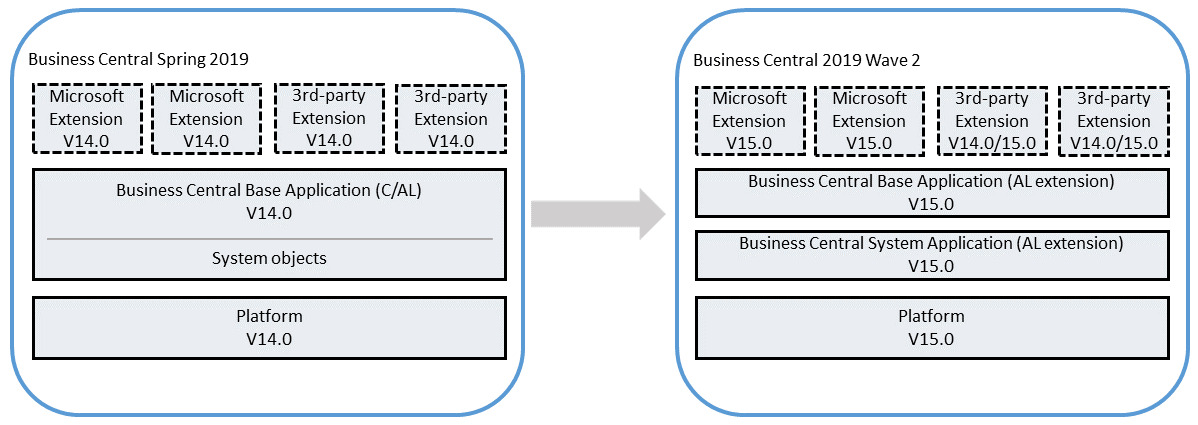
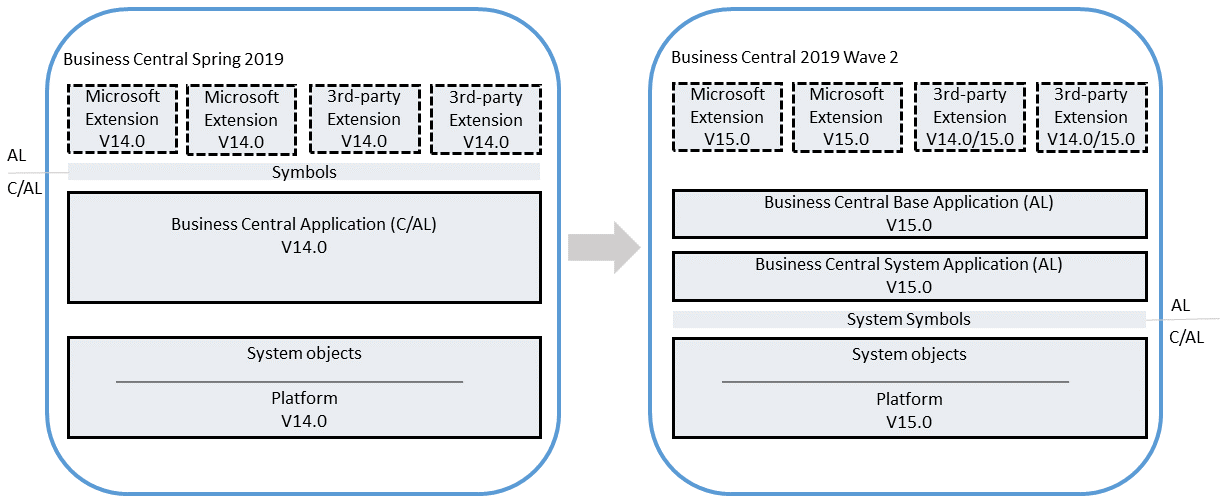
updates

Changed region(s): [[0.0, 0.0, 1.0, 1.0]]

diff --git a/dev-itpro/upgrade/upgrade-overview-v15.md b/dev-itpro/upgrade/upgrade-overview-v15.md
@@ -1095,6 +1095,20 @@ Now, you can publish the Microsoft and 3rd-party extensions that were published 
     ```
 
 -->
+## Componennt overview
+
+When upgrading, it will help to understand the components indicated in the illustration:
+
+
+
+## <a name="Symbols"></a>Symbols
+
+Symbols are the application programming interface between AL code and C/AL code. Symbols enable the ability to reference C/AL objects from AL objects. Symbols are provided as an extension package, and are published to the server instance similar to application extensions, but not installed on tenants.
+
+In version 14.0, with the base application being C/AL, there are three types of symbols: system, application, and test. System symbols contained references to the platform system objects. The application symbols contained references to the business application objects. The test symbols contained references to the test libraries used by Microsoft extensions.
+
+In version 15, with the move to AL, the only symbols required are the system systems, which are still provided on the version 15.0 installation media (DVD).
+  
 ## See Also  
 [Upgrading the Data](Upgrading-the-Data.md)   
 [Upgrading to Business Central](upgrading-to-business-central.md)  

diff --git a/dev-itpro/upgrade/upgrade-unmodified-application.md b/dev-itpro/upgrade/upgrade-unmodified-application.md
@@ -146,6 +146,8 @@ to the version 15.0 platform. The conversion updates the system tables of the da
     ```
     Publish-NAVApp -ServerInstance BC150 -Path "C:\Program Files (x86)\Microsoft Dynamics 365 Business Central\150\AL Development Environment\System.app" -PackageType SymbolsOnly
     ```
+    
+    [What are symbols?](upgrade-overview-v15.md#Symbols) 
 6. Publish the **System Application** extension (Microsoft_System Application.app).
 
     The **System Application** extension contains objects (IDs in the 2000000000 range ) that are required by any application. You find the (Microsoft_System Application.app in the **Applications\System Application\Source** folder of installation media (DVD).   

diff --git a/dev-itpro/upgrade/upgrade-technical-upgrade-v14-v15.md b/dev-itpro/upgrade/upgrade-technical-upgrade-v14-v15.md
@@ -71,7 +71,9 @@ The first thing to do is convert your solution from C/AL to AL. For more informa
 
     ``` 
     Get-NAVAppInfo -ServerInstance BC140 -SymbolsOnly | % { Unpublish-NAVApp -ServerInstance BC140 -Name $_.Name -Version $_.Version }
-    ```     
+    ```    
+
+    [What are symbols?](upgrade-overview-v15.md#Symbols)  
 4. Unpublish all extensions from the application.
 
     ```
